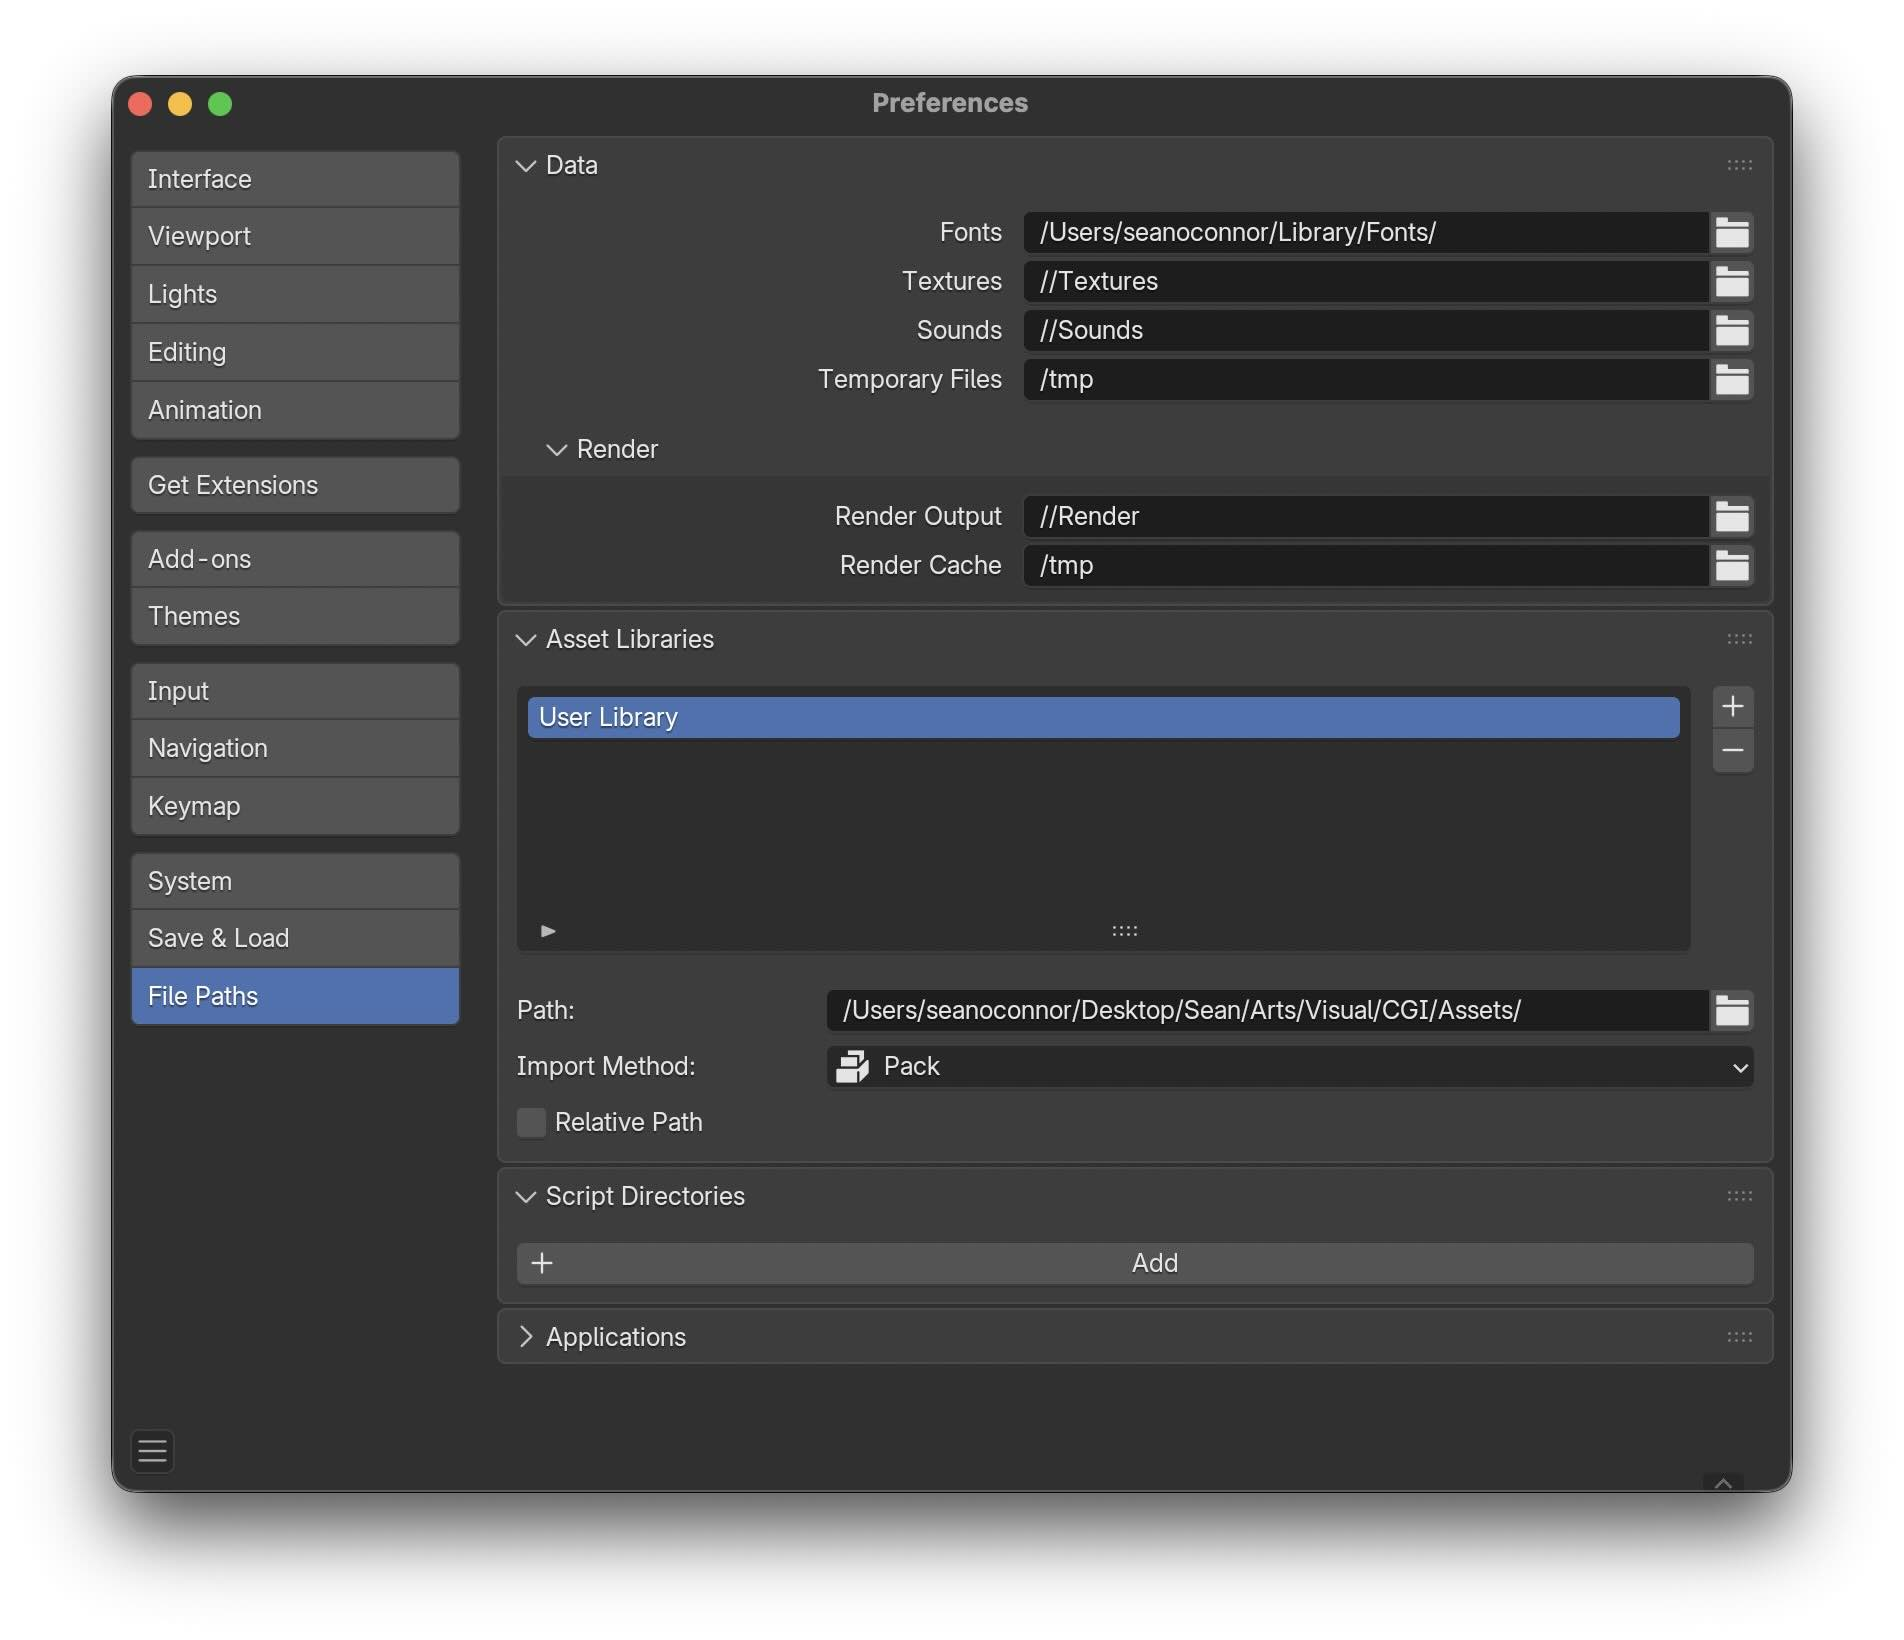
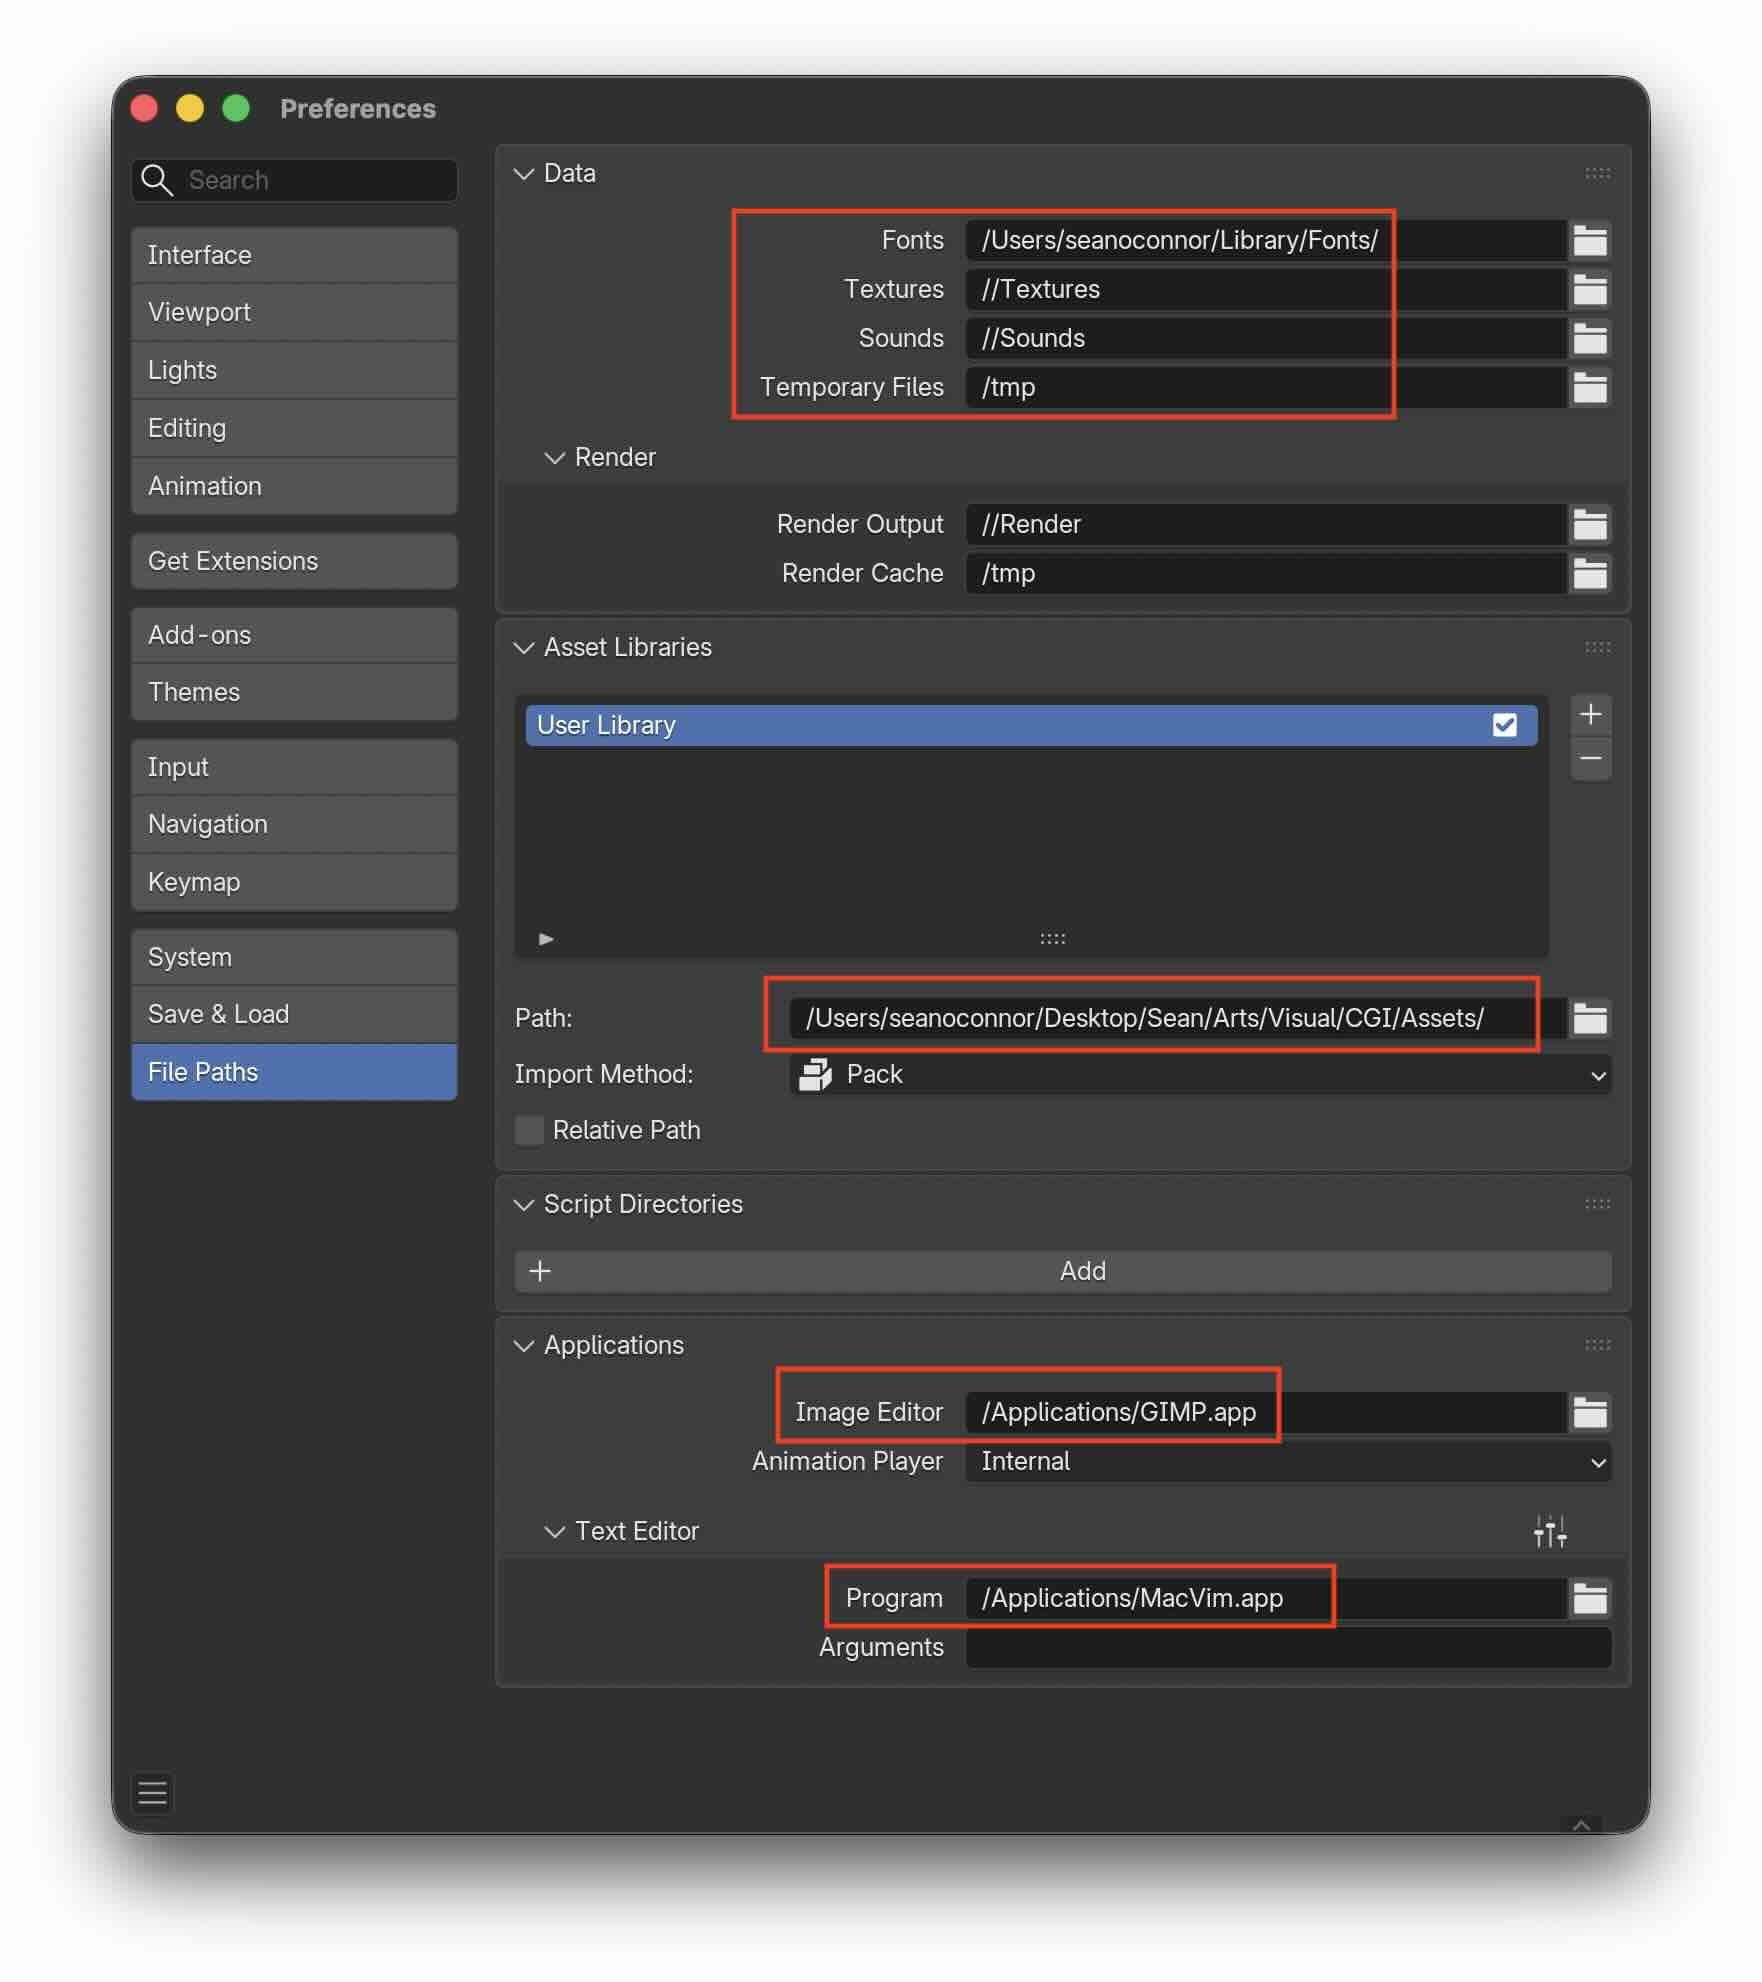
Change settings file paths

diff --git a/Art/BlenderWorkedExamples.html b/Art/BlenderWorkedExamples.html
@@ -4446,7 +4446,7 @@ Select the <em class="hotkey">density brush</em>,
                     Copyright &copy; 1986-2026 by Sean Erik O'Connor.
                     All Rights Reserved.
                     &nbsp;&nbsp;&nbsp;
-                    last updated 06 Jul 26.
+                    last updated 07 Jul 26.
                 </p>
             </footer>
         </div> <!-- wrapper -->
